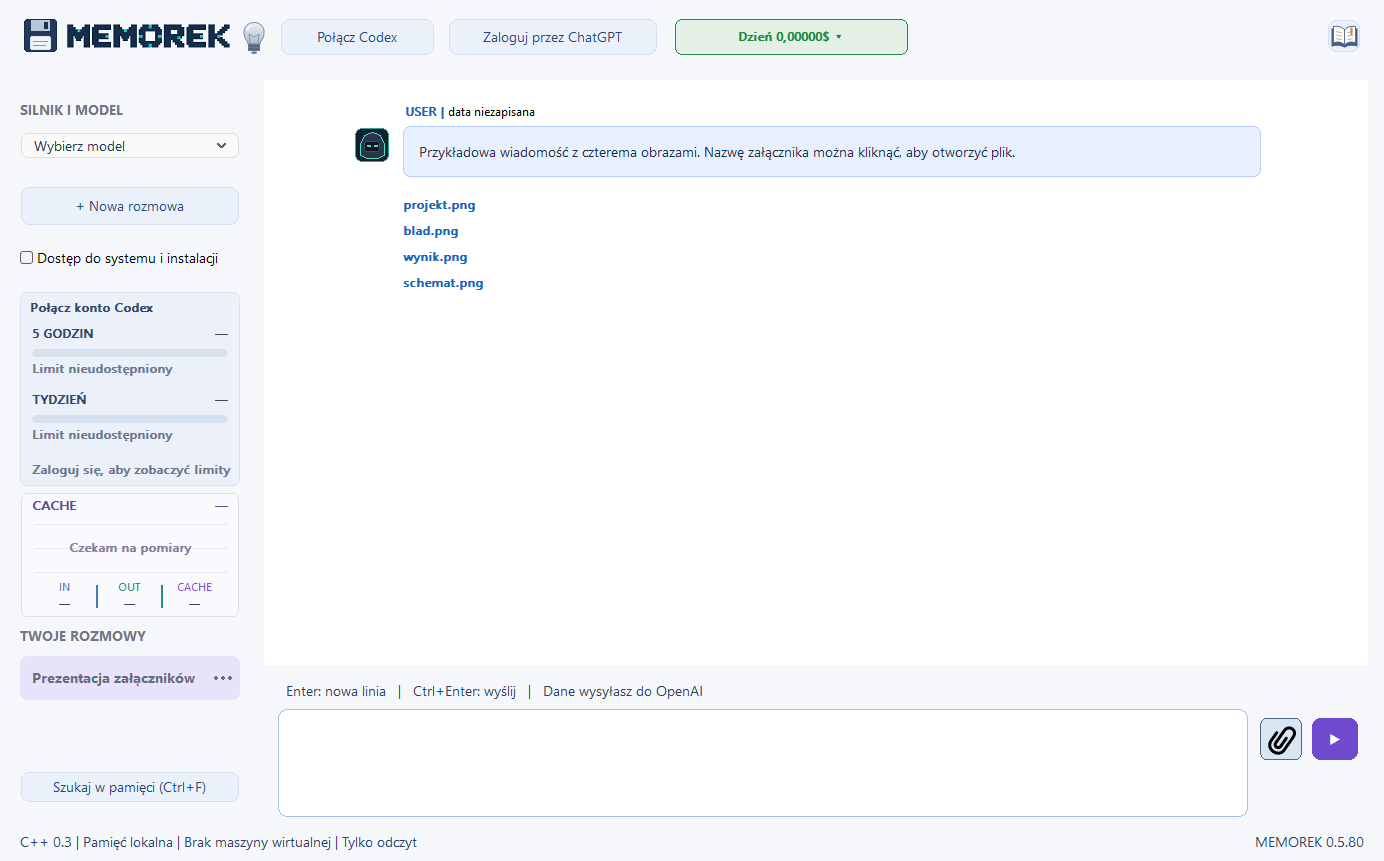
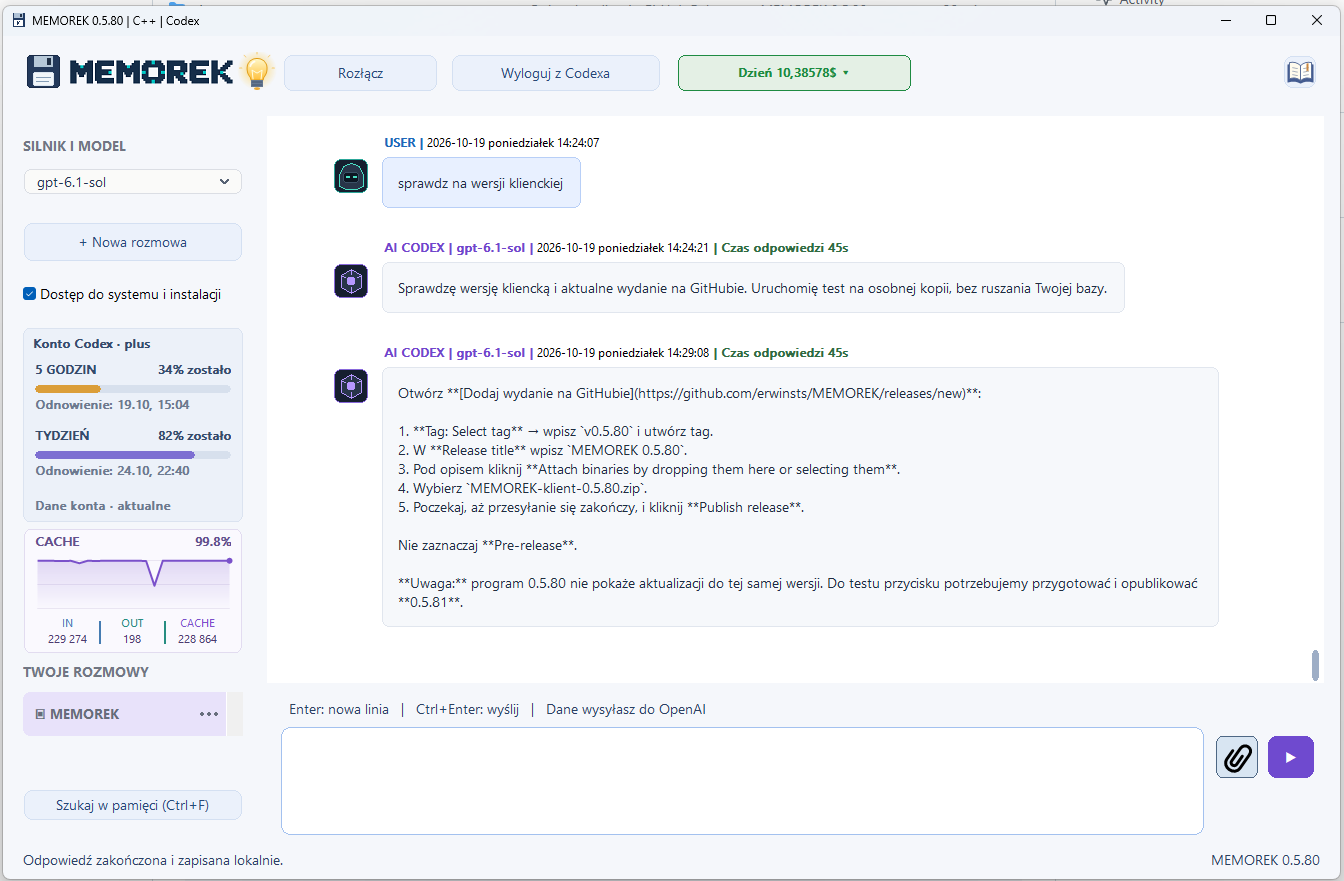
Podmien zrzut okna MEMOREK 0.5.80

diff --git a/README.md b/README.md
@@ -4,9 +4,9 @@ Darmowy program dla Windows autorstwa **rWin**. Rozmawiaj z agentem AI, dołącz
 
 Cała poniższa instrukcja dotyczy **wersji 0.5.80**.
 
-[![MEMOREK 0.5.80 — przykładowa wiadomość z czterema obrazami](docs/screeny/memorek-0.5.80.png)](docs/screeny/memorek-0.5.80.png)
+[![MEMOREK 0.5.80 — okno programu](docs/screeny/memorek-0.5.80.png)](docs/screeny/memorek-0.5.80.png)
 
-*Aktualne okno programu na profilu demonstracyjnym. Kliknij obraz, aby otworzyć pełny rozmiar.*
+*Aktualne okno programu w wersji 0.5.80. Kliknij obraz, aby otworzyć pełny rozmiar.*
 
 ## Pobieranie i wymagania
 
